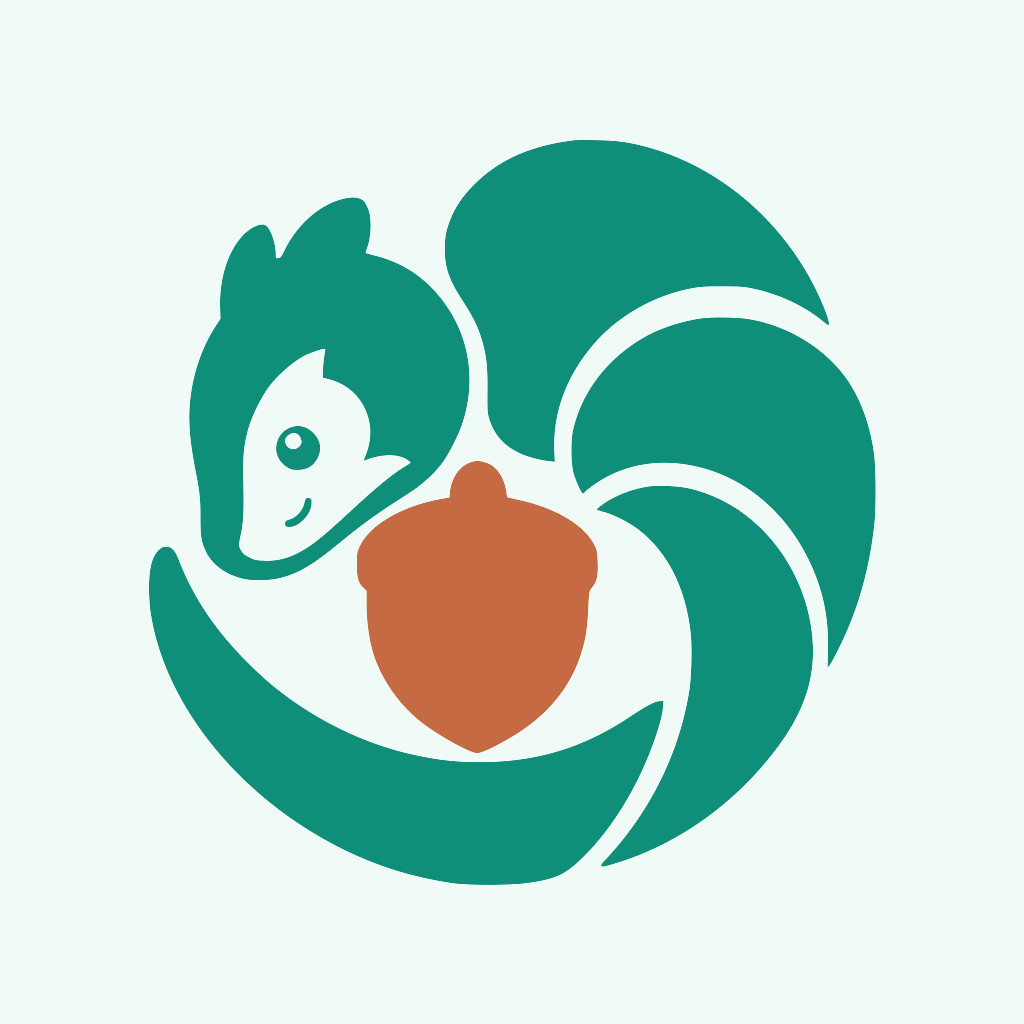
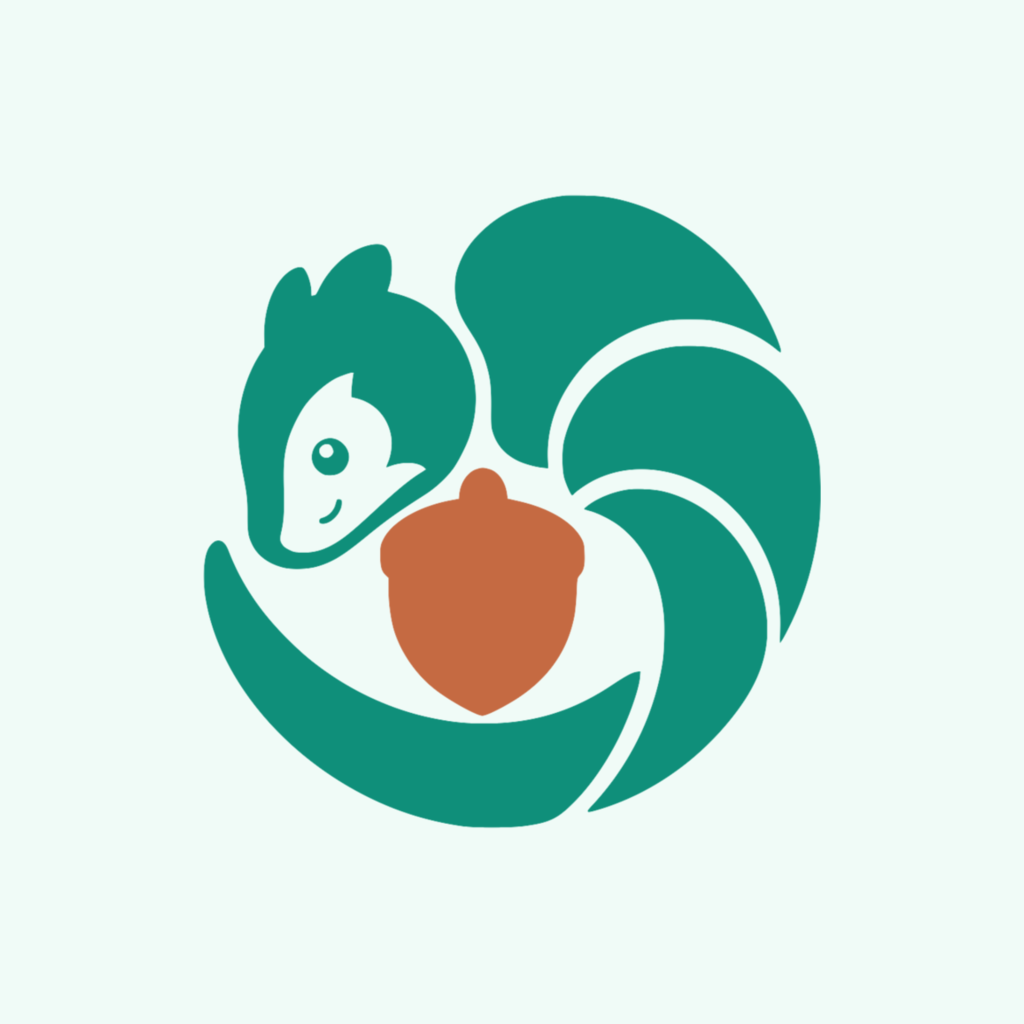
fix(mobile): 图标 iOS/Android 统一 62% + 通知去彩色大图 (v0.7.10)
- 图标: iOS 与 Android 统一为浅绿底 + logo 62%,图标源收敛为 icon.png
  (iOS + Android legacy 共用)+ adaptive-icon.png(adaptive 前景),删除多余的
  icon-android.png。修复 v0.7.9 launcher 与安装器 logo 显大(上版只改了 adaptive)
- 通知: 去掉 largeIcon,只保留单色 smallIcon(橡子)+ 品牌绿 color,消除展开时
  右下角重复 badge。Android 无法在有 largeIcon 时隐藏 badge;vivo 等 ROM 会强制
  把小图标显示为彩色 app 图标,原生 Android 为规范单色橡子

Changed region(s): [[0.125, 0.125, 0.875, 0.875]]

diff --git a/mobile/src/core/notifier.ts b/mobile/src/core/notifier.ts
@@ -85,9 +85,6 @@ async function notifyTransferOffer(
       // 状态栏单色小图标(见 foreground-service.ts 说明);color 染品牌绿。
       smallIcon: "ic_notification",
       color: "#0F8F7A",
-      // 展开通知右侧的彩色品牌 logo(圆形裁切)。
-      largeIcon: require("../../assets/images/icon.png"),
-      circularLargeIcon: true,
       pressAction: { id: "default" },
     },
   });
@@ -117,9 +114,6 @@ async function notifyPairingRequest(
       // 状态栏单色小图标(见 foreground-service.ts 说明);color 染品牌绿。
       smallIcon: "ic_notification",
       color: "#0F8F7A",
-      // 展开通知右侧的彩色品牌 logo(圆形裁切)。
-      largeIcon: require("../../assets/images/icon.png"),
-      circularLargeIcon: true,
       pressAction: { id: "default" },
     },
   });

diff --git a/mobile/src/core/foreground-service.ts b/mobile/src/core/foreground-service.ts
@@ -40,9 +40,6 @@ const FGS_ANDROID_BASE = {
   // → 被系统渲染成深色块。color 给图标染品牌绿。
   smallIcon: "ic_notification",
   color: "#0F8F7A",
-  // 展开通知右侧的大图标 = 彩色品牌 logo(圆形裁切,与 launcher 图标一致)。
-  largeIcon: require("../../assets/images/icon.png"),
-  circularLargeIcon: true,
   asForegroundService: true,
   foregroundServiceTypes: [FGS_TYPE],
   ongoing: true,